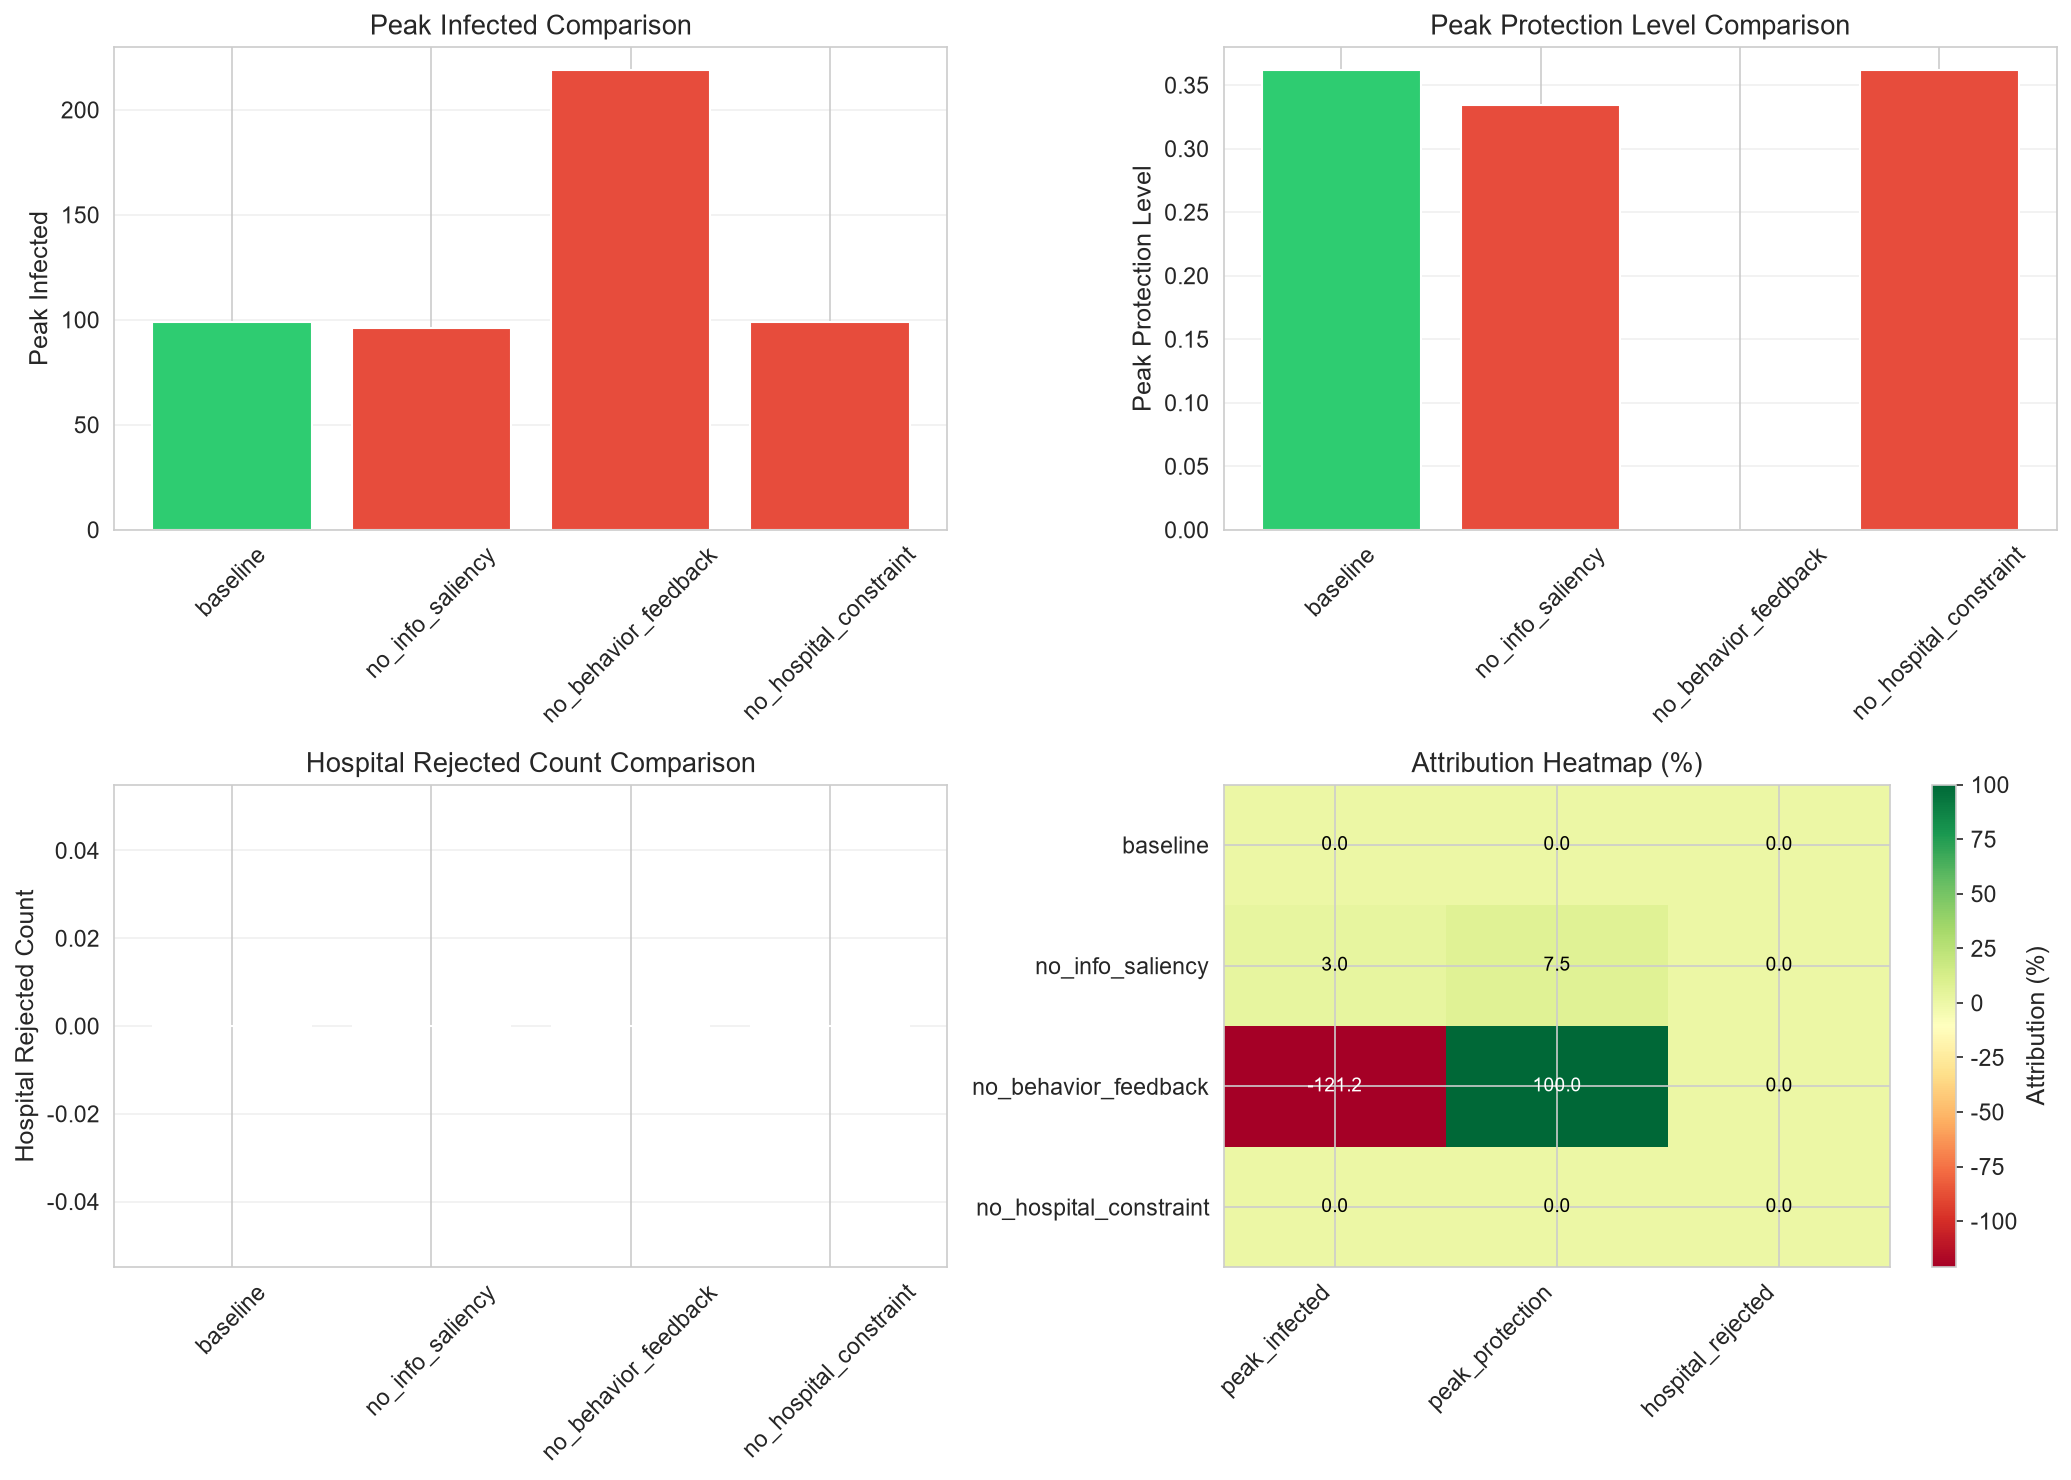
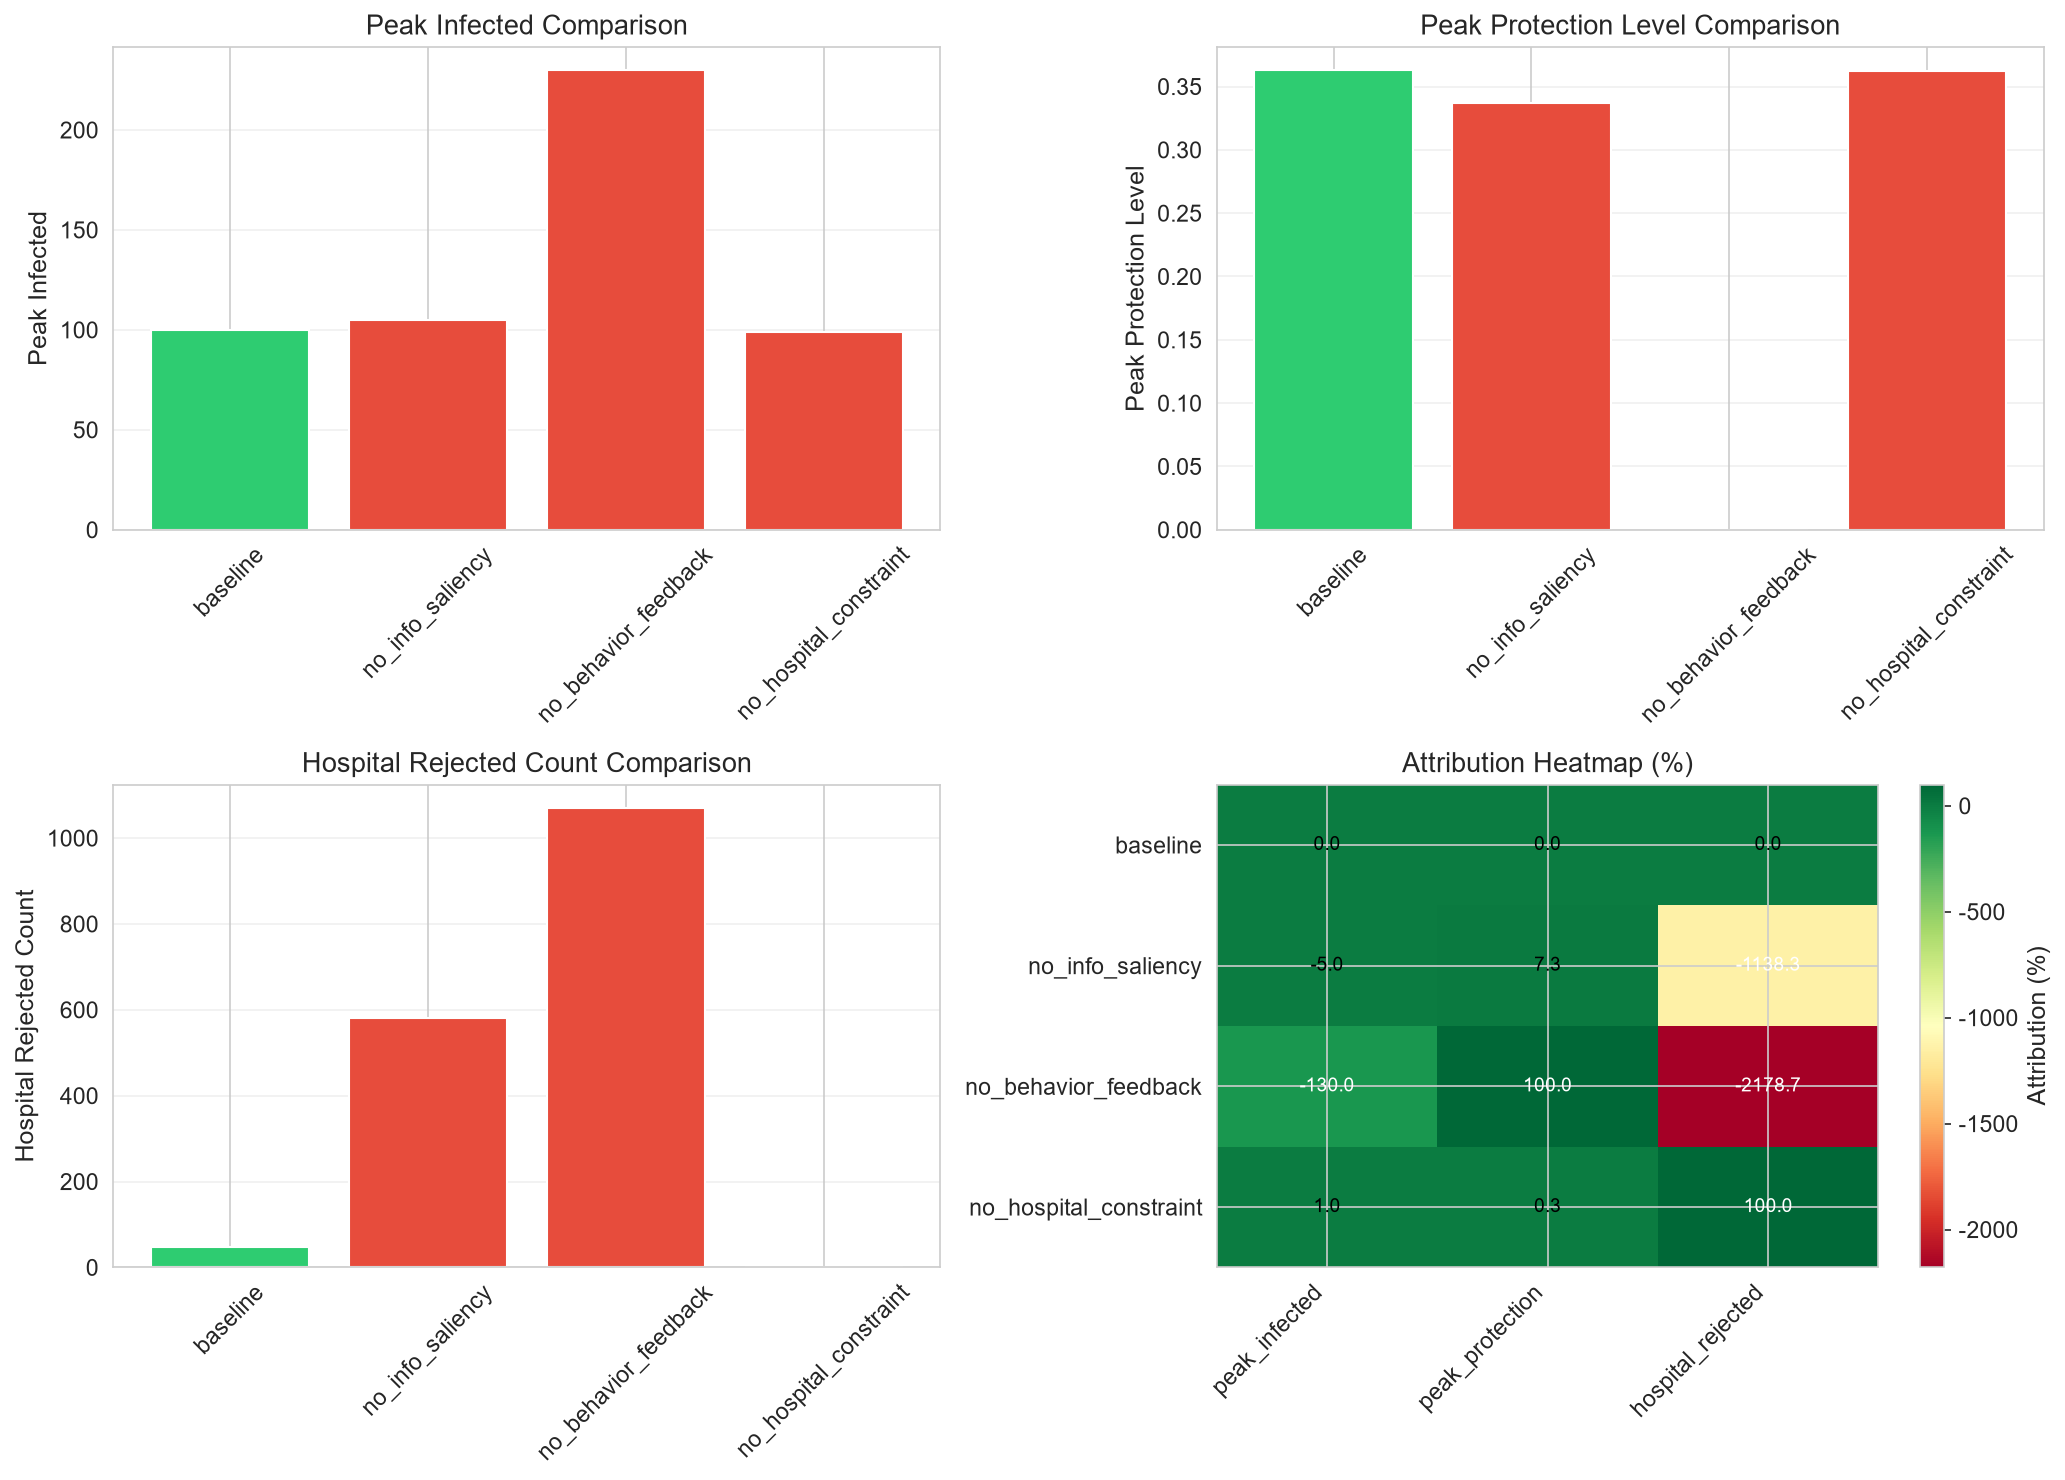
Fix ablation-attribution: adjust DES parameters for meaningful resource constraints

diff --git a/experiments/ablation_attribution.py b/experiments/ablation_attribution.py
@@ -47,8 +47,8 @@ def run_ablation_experiment(ablation_config: dict, population_size: int = 1000,
     )
     
     des_params = DESParams(
-        hospital_beds=200,
-        icu_beds=50,
+        hospital_beds=50,  # 减少床位，使资源约束生效
+        icu_beds=10,       # 减少ICU床位
         testing_capacity=100,
         avg_hospital_stay=7,
         avg_icu_stay=14,

diff --git a/results/ablation_attribution_report.md b/results/ablation_attribution_report.md
@@ -17,9 +17,9 @@
 
 | 实验配置 | 峰值感染 | 峰值日 | 峰值防护 | 医疗拒绝 |
 |---------|---------|--------|---------|---------|
-| baseline | 99 | 101 | 0.362 | 0 |
-| no_info_saliency | 96 | 99 | 0.335 | 0 |
-| no_behavior_feedback | 219 | 57 | 0.000 | 0 |
+| baseline | 100 | 90 | 0.363 | 47 |
+| no_info_saliency | 105 | 96 | 0.337 | 582 |
+| no_behavior_feedback | 230 | 59 | 0.000 | 1071 |
 | no_hospital_constraint | 99 | 101 | 0.362 | 0 |
 
 ## 归因分析（贡献度百分比）
@@ -30,21 +30,21 @@
 |---------|---------|---------|---------|
 |peak_infected|peak_protection|hospital_rejected
 |baseline|0.0|0.0|0.0
-|no_info_saliency|3.0303030303030303|7.528161131513901|0.0
-|no_behavior_feedback|-121.21212121212122|100.0|0.0
-|no_hospital_constraint|0.0|0.0|0.0
+|no_info_saliency|-5.0|7.275212597119274|-1138.2978723404256
+|no_behavior_feedback|-130.0|100.0|-2178.723404255319
+|no_hospital_constraint|1.0|0.31197475587133644|100.0
 |
 
 ## 关键发现
 
-1. **信息显著性贡献**: 移除信息显著性后，峰值感染变化 3.0%。
-   - 信息显著性对峰值感染影响有限（贡献度 3.0%）。
+1. **信息显著性贡献**: 移除信息显著性后，峰值感染变化 -5.0%。
+   - 信息显著性对峰值感染影响有限（贡献度 5.0%）。
 
-2. **行为反馈贡献**: 移除行为反馈后，峰值感染变化 -121.2%。
-   - 行为反馈对峰值感染有显著影响（贡献度 121.2%）。
+2. **行为反馈贡献**: 移除行为反馈后，峰值感染变化 -130.0%。
+   - 行为反馈对峰值感染有显著影响（贡献度 130.0%）。
 
-3. **医疗资源约束贡献**: 移除医疗资源约束后，医疗拒绝人数变化 0.0%。
-   - 医疗资源约束对医疗拒绝影响有限。
+3. **医疗资源约束贡献**: 移除医疗资源约束后，医疗拒绝人数变化 100.0%。
+   - 医疗资源约束是医疗拒绝的主要原因（贡献度 100.0%）。
 
 ## 结论
 
